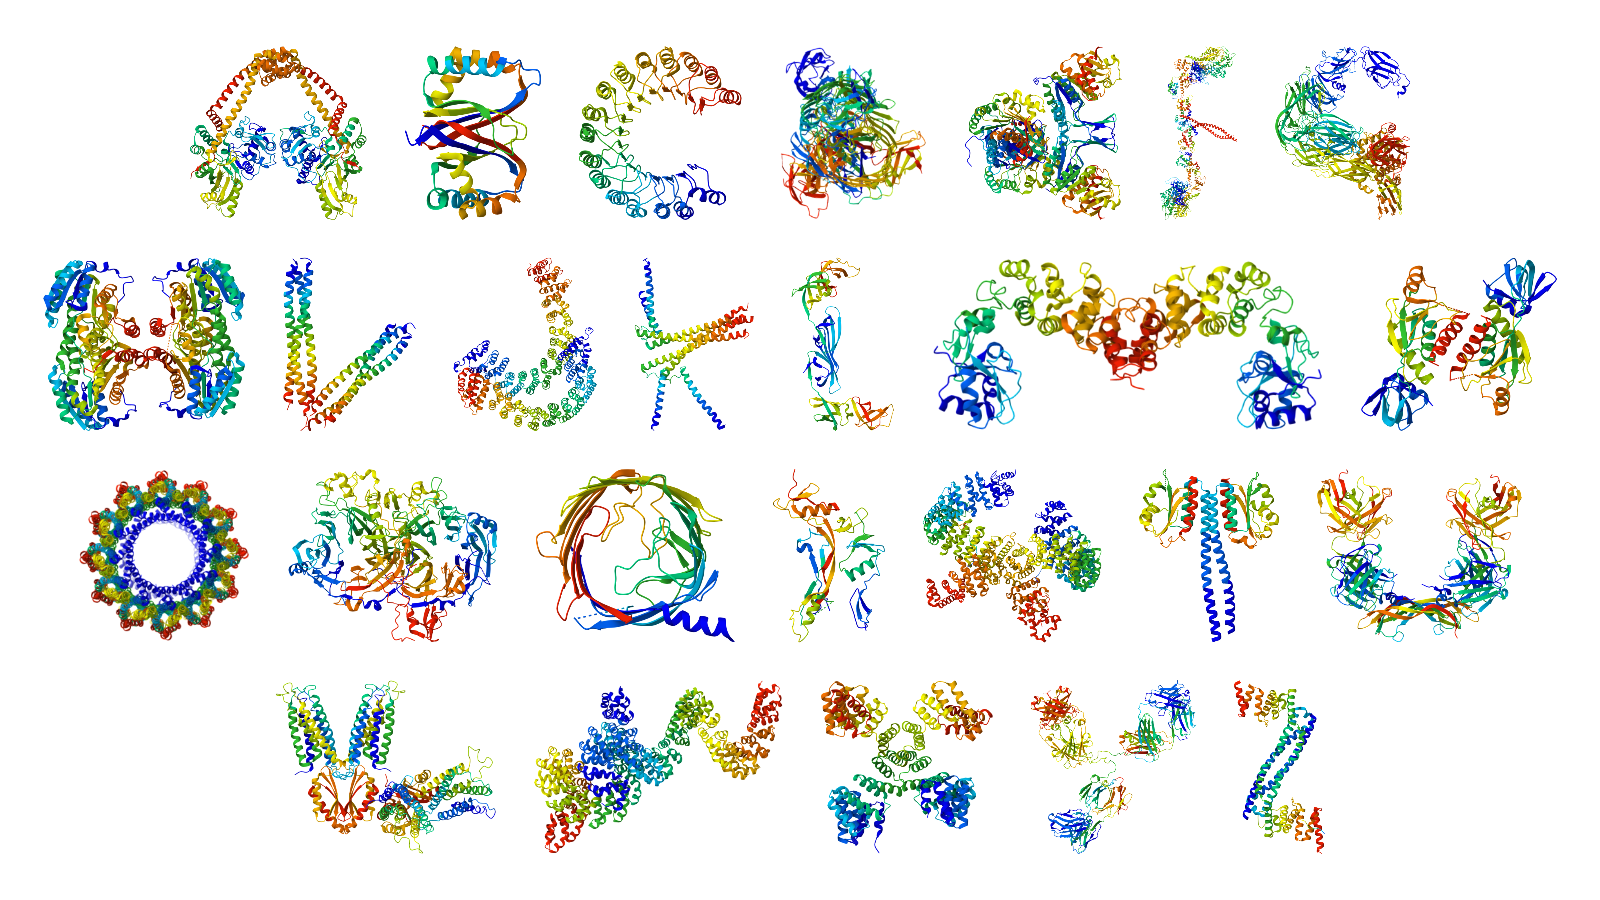
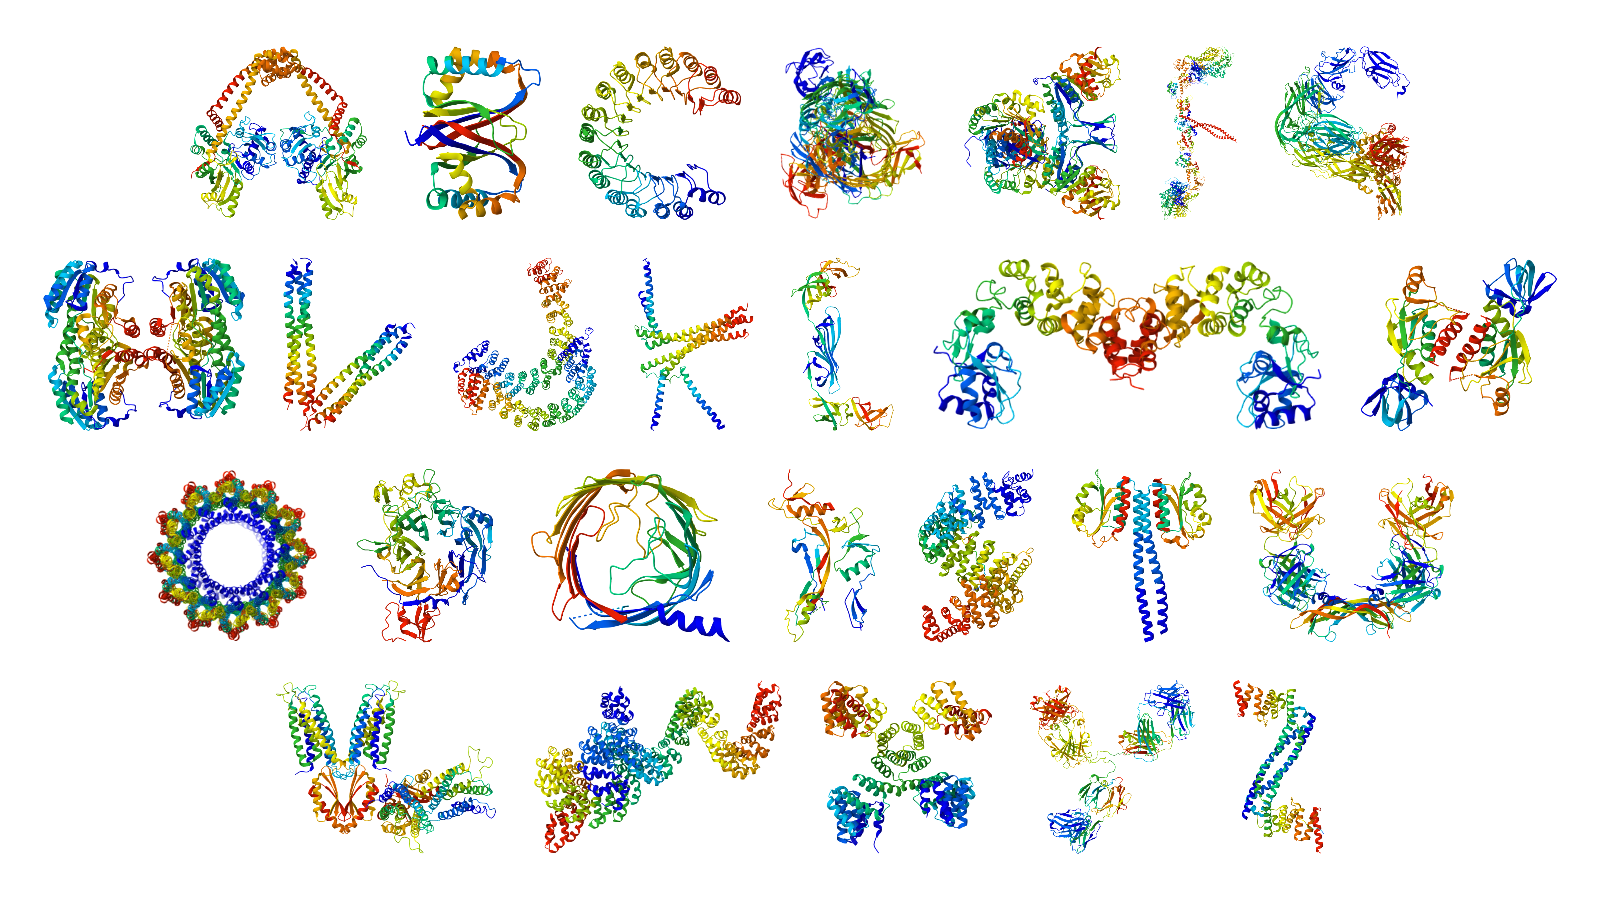
Regen S and P

diff --git a/scripts/tests/test_extract_manifest.py b/scripts/tests/test_extract_manifest.py
@@ -1,6 +1,9 @@
 import json
 from pathlib import Path
 
+import pytest
+from PIL import Image
+
 import extract_manifest
 
 
@@ -27,3 +30,54 @@ def test_extractor_defaults_to_manifest_beside_app_entrypoint():
     root = Path(extract_manifest.__file__).resolve().parent.parent
     assert args.output == root / "src/manifest.json"
     assert args.images == root / "assets"
+
+
+def test_partial_extraction_preserves_other_letters(tmp_path, monkeypatch):
+    output = tmp_path / "manifest.json"
+    output.write_text(
+        json.dumps({"letters": {"A": {"kept": True}, "P": {"old": True}}})
+    )
+    monkeypatch.setattr(extract_manifest, "prepare_sessions", lambda *_args: tmp_path)
+    monkeypatch.setattr(
+        extract_manifest, "session_metadata", lambda *_args: {"updated": True}
+    )
+    extract_manifest.main(
+        ["--sessions", str(tmp_path), "--letters", "ps", "--output", str(output)]
+    )
+    assert json.loads(output.read_text())["letters"] == {
+        "A": {"kept": True},
+        "P": {"updated": True},
+        "S": {"updated": True},
+    }
+
+
+@pytest.mark.parametrize("letter,visible", [("P", "A"), ("S", "BD")])
+def test_session_extraction_excludes_hidden_chains_from_selection_and_bounds(
+    tmp_path, letter, visible
+):
+    from pymol import cmd
+
+    cmd.reinitialize()
+    atoms = []
+    serial = 0
+    for chain in "ABCD":
+        offset = 0 if chain in visible else 1000
+        for residue in range(1, 4):
+            serial += 1
+            x, y, z = offset + residue, residue * 2, residue * 3
+            atoms.append(
+                f"ATOM  {serial:5d}  CA  ALA {chain}{residue:4d}    "
+                f"{x:8.3f}{y:8.3f}{z:8.3f}  1.00 20.00           C"
+            )
+        atoms.append("TER")
+    cmd.read_pdbstr("\n".join(atoms), "3afc")
+    cmd.hide("everything", "all")
+    cmd.show("cartoon", " or ".join(f"chain {chain}" for chain in visible))
+    session = tmp_path / f"{letter}.pse"
+    cmd.save(str(session))
+    Image.new("RGBA", (100, 200)).save(tmp_path / f"{letter.lower()}.png")
+
+    geometry = extract_manifest.session_metadata(session, tmp_path, letter)
+    assert geometry["chains"] == {chain: [1, 3] for chain in visible}
+    assert geometry["projected_center"] == [2.0, 4.0, 6.0]
+    assert geometry["projected_size"] == [2.0, 4.0, 6.0]

diff --git a/scripts/extract_manifest.py b/scripts/extract_manifest.py
@@ -30,12 +30,19 @@ def parse_args(arguments: Sequence[str] | None = None) -> argparse.Namespace:
         "--images", type=Path, default=ASSET_DIRECTORY, help="letter tile directory"
     )
     parser.add_argument(
+        "--letters", default=ALPHABET, help="letters to refresh (default: A-Z)"
+    )
+    parser.add_argument(
         "--output",
         type=Path,
         default=REPOSITORY_ROOT / "src/manifest.json",
         help="manifest destination",
     )
-    return parser.parse_args(arguments)
+    args = parser.parse_args(arguments)
+    args.letters = "".join(dict.fromkeys(args.letters.upper()))
+    if not args.letters or any(letter not in ALPHABET for letter in args.letters):
+        parser.error("--letters must contain only letters A-Z")
+    return args
 
 
 def transform_coordinate(
@@ -77,7 +84,7 @@ def session_metadata(session: Path, image_directory: Path, letter: str) -> dict:
 
     object_name = objects[0]
     # Several official sessions hide whole chains to form a letter (notably D,
-    # E, and O). Their coordinates still exist in the loaded molecule. Extract
+    # E, O, P, and S). Their coordinates still exist in the loaded molecule. Extract
     # the displayed cartoon rather than every protein chain in that object.
     model = cmd.get_model(f"{object_name} and polymer.protein and rep cartoon")
     view = cmd.get_view()
@@ -116,13 +123,14 @@ def main(arguments: Sequence[str] | None = None) -> int:
     args = parse_args(arguments)
     archive = args.sessions or download_archive(Path("build/AlphabetPDB.zip"))
     with tempfile.TemporaryDirectory(prefix="pdbwords-sessions-") as temporary:
-        sessions = prepare_sessions(Path(archive), Path(temporary), ALPHABET)
+        sessions = prepare_sessions(Path(archive), Path(temporary), args.letters)
         letters = {
             letter: session_metadata(sessions / f"{letter}.pse", args.images, letter)
-            for letter in ALPHABET
+            for letter in args.letters
         }
 
     manifest = json.loads(args.output.read_text()) if args.output.exists() else {}
+    letters = {**manifest.get("letters", {}), **letters}
     manifest.update(
         {
             "version": 1,

diff --git a/README.md b/README.md
@@ -42,7 +42,7 @@ The app imports `src/manifest.json` directly; there is no
 second geometry manifest. It preserves the Python column-major transforms,
 whole-word wrapping, line spacing, author chain identifiers and residue color
 ranges. The extractor selects only protein atoms shown as cartoons in the
-original sessions: hidden chains are excluded, including for D, E, and O.
+original sessions: hidden chains are excluded, including for D, E, O, P, and S.
 Newlines and the case-sensitive `xLBx` token are line breaks. Letters A–Z and
 digits 0–9 are supported; characters outside these, whitespace, and `.,:!?-`
 produce explicit errors.
@@ -128,7 +128,8 @@ uv run ruff check scripts
 The `assets:build`, `manifest:extract`, and `test:python` pnpm scripts delegate to
 uv as conveniences. Both maintenance scripts default to root `assets/` and
 `src/manifest.json`. The extractor updates A–Z geometry while preserving manually
-reviewed digit entries. Original letter PNGs supply spacing measurements;
+reviewed digit entries. Pass `--letters PS` to refresh only P and S while preserving
+the other letters. Original letter PNGs supply spacing measurements;
 punctuation PNGs are used by the browser. Alternative PyMOL themes remain
 maintainer reference assets. There is no Python CLI, wheel, or PyPI publication.
 
